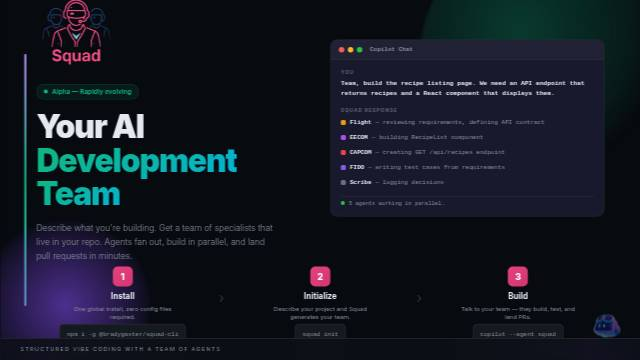
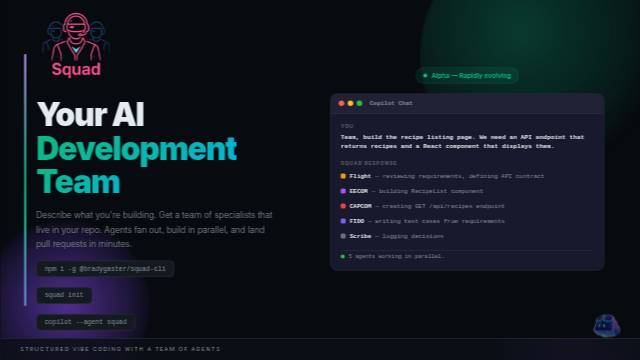
Auto-save from DECKIO — 2026-04-08T13:59

diff --git a/src/slides/MeetSquadSlide.jsx b/src/slides/MeetSquadSlide.jsx
@@ -14,11 +14,6 @@ export default function MeetSquadSlide({ index, project }) {
           <div className={styles.left}>
             <img src={squadLogo} alt="Squad logo" className={styles.logo} />
 
-            <div className={styles.badge}>
-              <span className={styles.badgeDot} />
-              Alpha — Rapidly evolving
-            </div>
-
             <h1>
               Your AI<br />
               <span className={styles.highlight}>Development</span><br />
@@ -29,9 +24,16 @@ export default function MeetSquadSlide({ index, project }) {
               Describe what you're building. Get a team of specialists that live in your repo. Agents fan out, build in parallel, and land pull requests in minutes.
             </p>
 
+            <code className={styles.installCmd}>npm i -g @bradygaster/squad-cli</code>
+            <code className={styles.installCmd}>squad init</code>
+            <code className={styles.installCmd}>copilot --agent squad</code>
           </div>
 
           <div className={styles.right}>
+            <div className={styles.badge}>
+              <span className={styles.badgeDot} />
+              Alpha — Rapidly evolving
+            </div>
             <div className={styles.terminal}>
               <div className={styles.termHeader}>
                 <span className={styles.dot} style={{ background: '#ff5f57' }} />
@@ -61,25 +63,6 @@ export default function MeetSquadSlide({ index, project }) {
           </div>
         </div>
 
-        <div className={styles.steps}>
-          <div className={styles.step}>
-            <h3 className={styles.stepTitle}>Install</h3>
-            <p className={styles.stepDesc}>One global install, zero config files required.</p>
-            <code className={styles.installCmd}>npm i -g @bradygaster/squad-cli</code>
-          </div>
-          <span className={styles.stepArrow}>›</span>
-          <div className={styles.step}>
-            <h3 className={styles.stepTitle}>Initialize</h3>
-            <p className={styles.stepDesc}>Describe your project and Squad generates your team.</p>
-            <code className={styles.installCmd}>squad init</code>
-          </div>
-          <span className={styles.stepArrow}>›</span>
-          <div className={styles.step}>
-            <h3 className={styles.stepTitle}>Build</h3>
-            <p className={styles.stepDesc}>Talk to your team — they build, test, and land PRs.</p>
-            <code className={styles.installCmd}>copilot --agent squad</code>
-          </div>
-        </div>
       </div>
 
       <BottomBar text="Structured Vibe Coding with a Team of Agents" />

diff --git a/src/slides/MeetSquadSlide.module.css b/src/slides/MeetSquadSlide.module.css
@@ -99,52 +99,13 @@
 .installCmd {
   display: block;
   font-family: 'JetBrains Mono', 'Fira Code', monospace;
-  font-size: 12px;
+  font-size: 13px;
   color: var(--muted-foreground);
   background: var(--secondary);
   border: 1px solid var(--border);
   border-radius: 8px;
-  padding: 10px 14px;
+  padding: 6px 16px;
   width: fit-content;
-}
-
-.steps {
-  display: flex;
-  align-items: center;
-  gap: 20px;
-  margin-top: 8px;
-}
-
-.step {
-  display: flex;
-  flex-direction: column;
-  align-items: center;
-  text-align: center;
-  gap: 6px;
-  flex: 1;
-}
-
-.stepTitle {
-  font-size: 16px;
-  font-weight: 700;
-  color: var(--foreground);
-  margin: 0;
-}
-
-.stepDesc {
-  font-size: 12px;
-  color: var(--muted-foreground);
-  line-height: 1.4;
-  max-width: 240px;
-  margin: 0;
-}
-
-.stepArrow {
-  font-size: 28px;
-  color: var(--muted-foreground);
-  opacity: 0.4;
-  font-weight: 300;
-  margin-top: -30px;
 }
 
 .right {
